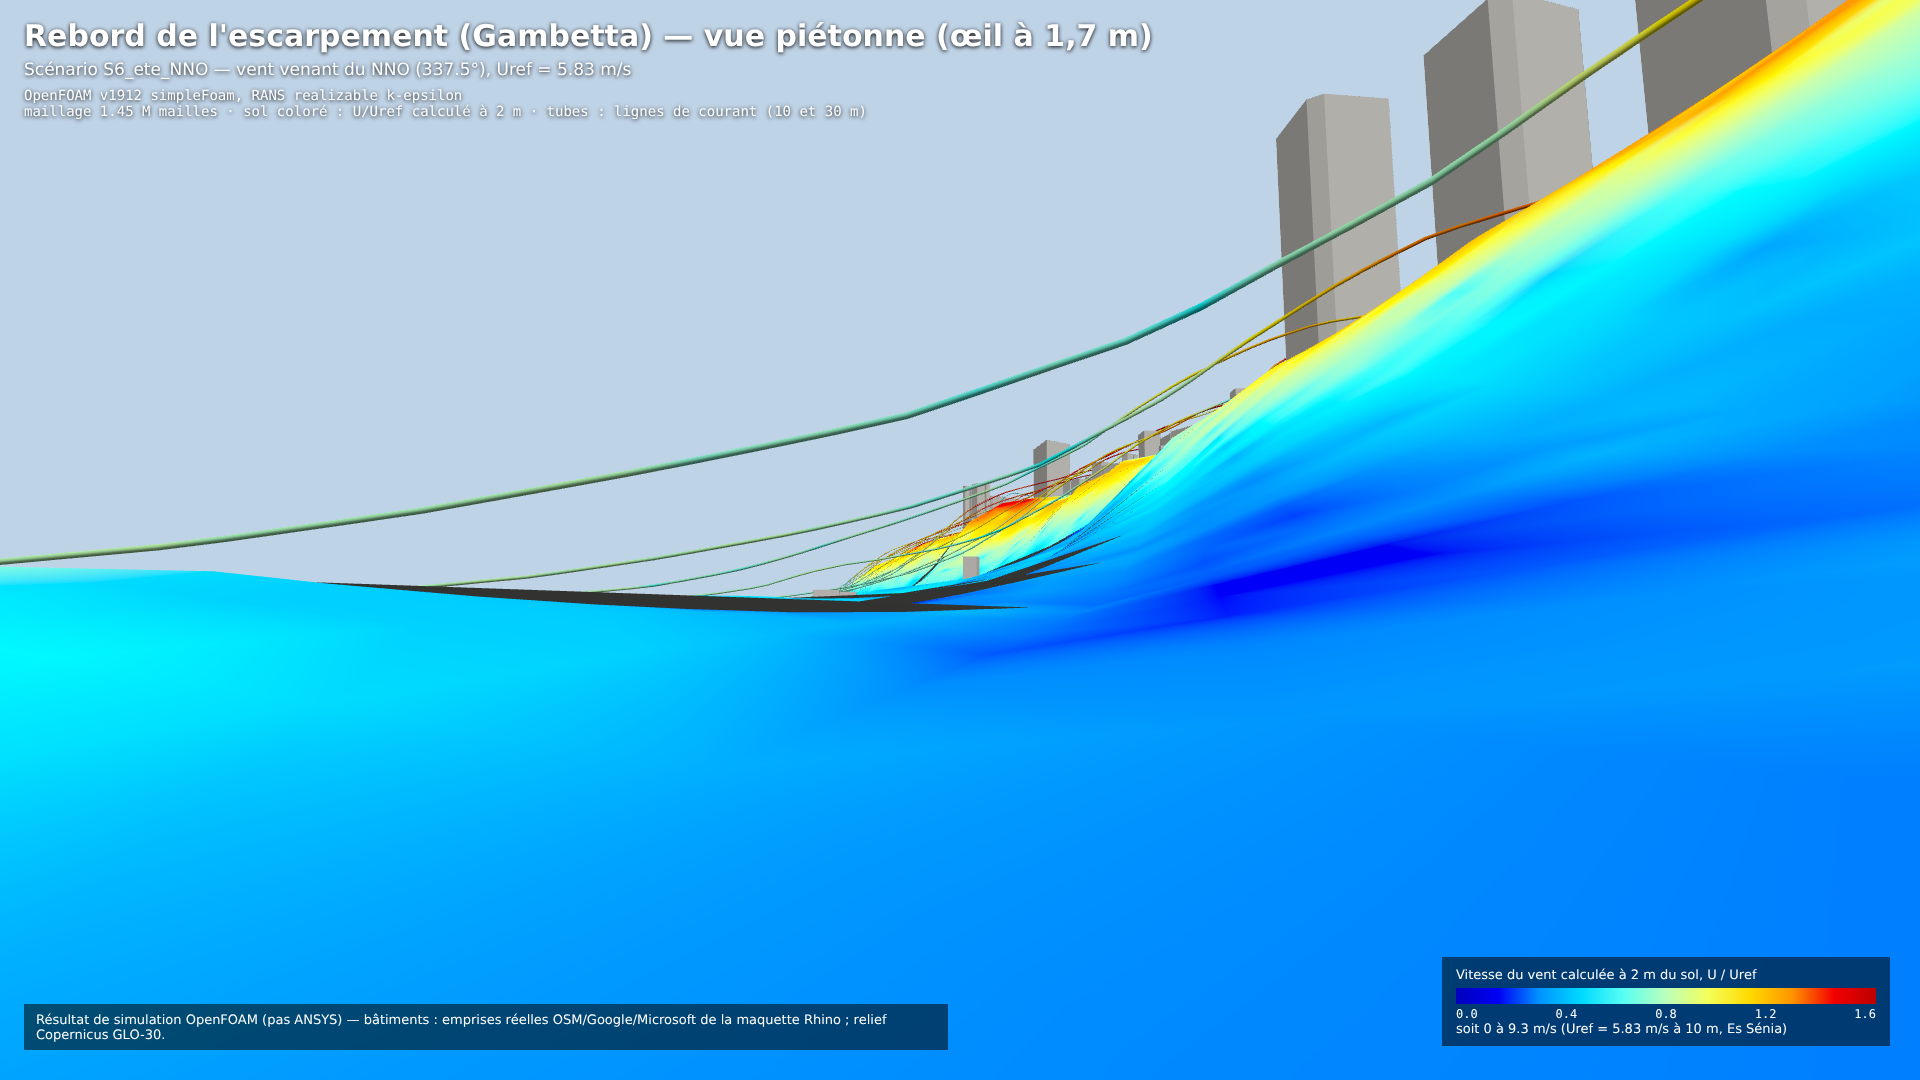
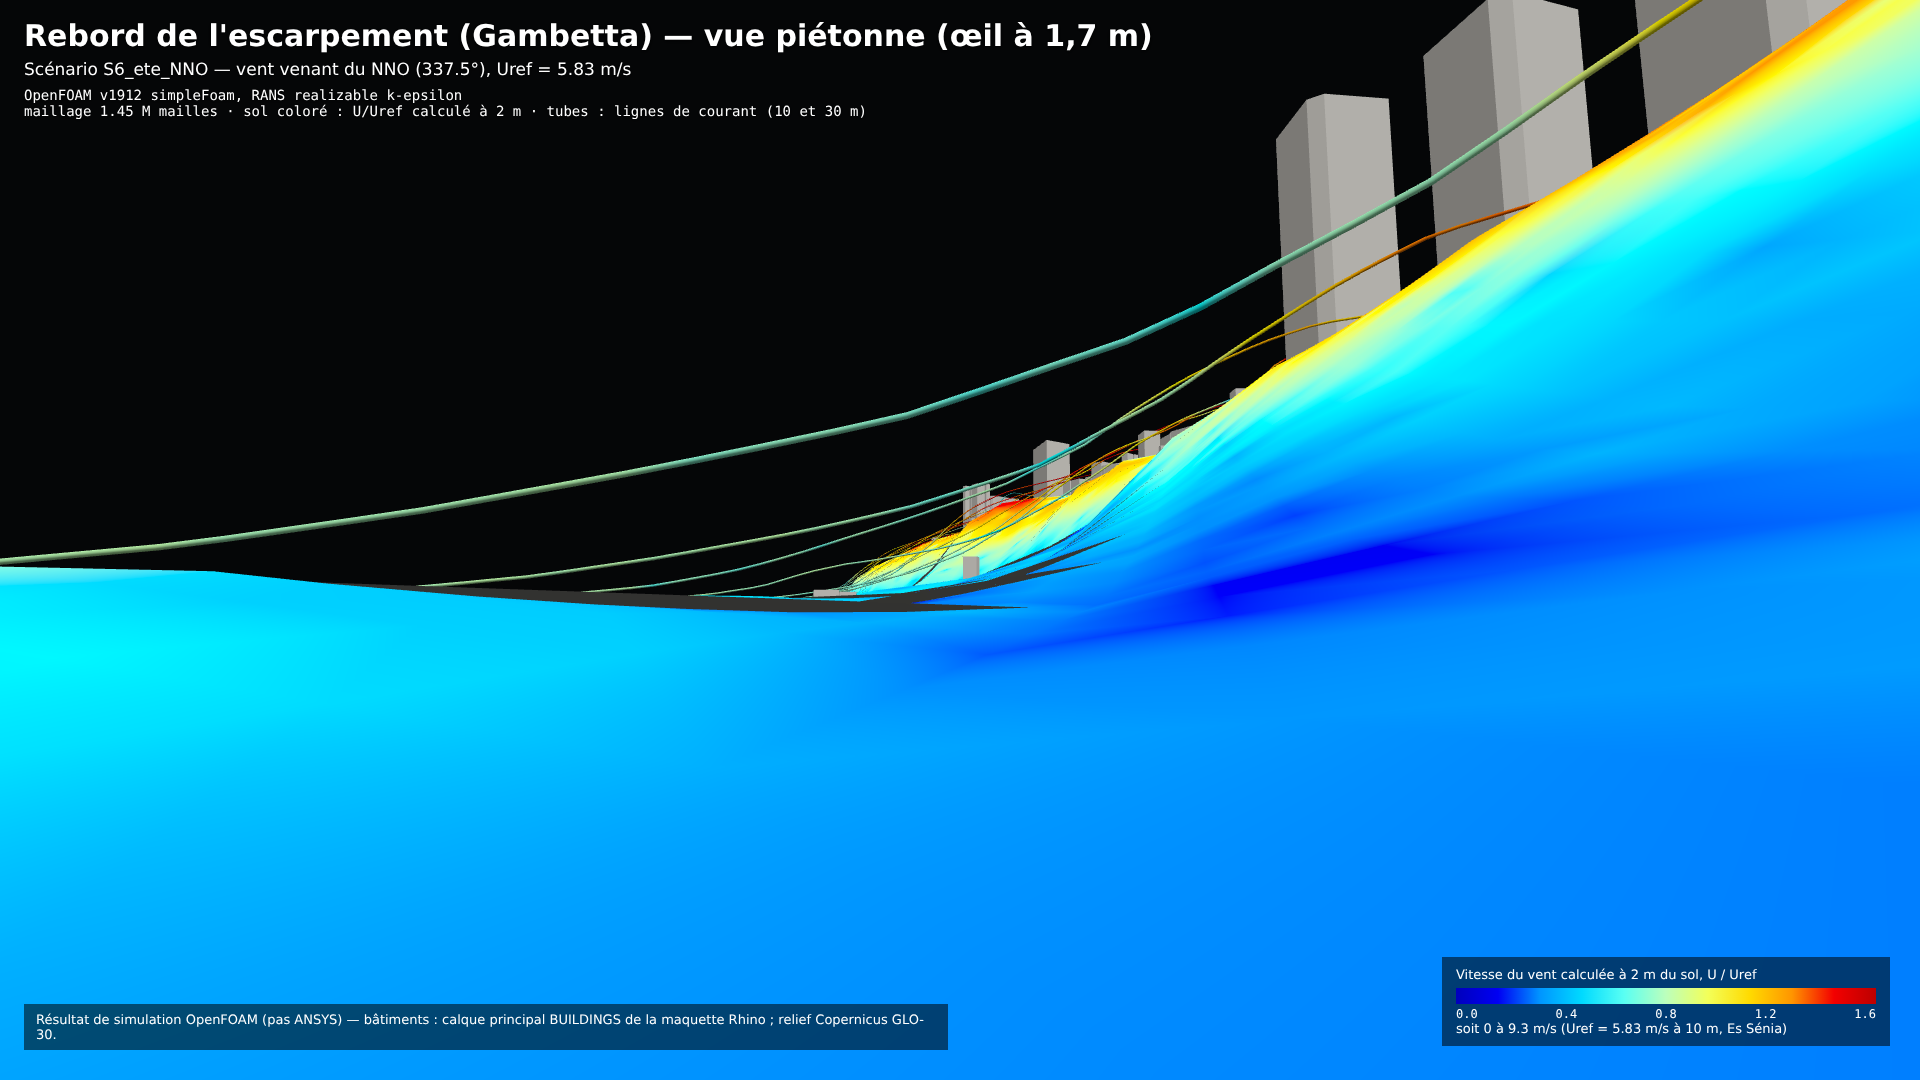
Black technical background for perspective views; correct mesh section; larger slide text
- 47: absolute output path, street cameras moved off building footprints, caption names the building layer used
- 45: mesh_cell_boxes() for true cell sections; 51 draws the mesh section from cell boxes
- 51/50: thermal results from S6T2_ref_coarse; report documents the diverged first attempt
- slides: larger fonts for full-HD readability

Claude-Session: https://claude.ai/code/session_01QGwNbZQt4WkfttLmgBQ439

diff --git a/scripts/cfd/perspective/index.html b/scripts/cfd/perspective/index.html
@@ -1,5 +1,5 @@
 <!doctype html><html><head><meta charset="utf-8">
-<style>html,body{margin:0;width:1920px;height:1080px;overflow:hidden;background:#cfd8dc;font-family:'DejaVu Sans',sans-serif}
+<style>html,body{margin:0;width:1920px;height:1080px;overflow:hidden;background:#050607;font-family:'DejaVu Sans',sans-serif}
 #hud{position:absolute;left:24px;top:18px;color:#fff;text-shadow:0 1px 4px #000}
 #t1{font:700 30px 'DejaVu Sans'} #t2{font:17px 'DejaVu Sans';margin-top:6px} #t3{font:14px 'DejaVu Sans Mono';margin-top:8px;white-space:pre}
 #leg{position:absolute;right:30px;bottom:34px;width:420px;background:rgba(0,0,0,.55);padding:10px 14px;color:#fff;font:13px 'DejaVu Sans'}
@@ -24,13 +24,13 @@ document.getElementById('legm').textContent = `soit 0 à ${(VMAX * S.uref).toFix
 async function bin(u, T) { return new T(await (await fetch(u)).arrayBuffer()); }
 const scenes = {};
 async function build(k) {
-  const sc = new THREE.Scene(); sc.background = new THREE.Color(0xbfd3e6); sc.fog = new THREE.Fog(0xbfd3e6, 1500, 5200);
+  const sc = new THREE.Scene(); sc.background = new THREE.Color(0x050607); sc.fog = new THREE.Fog(0x050607, 1500, 5200);
   sc.add(new THREE.HemisphereLight(0xffffff, 0x8d8d8d, 1.1));
   const sun = new THREE.DirectionalLight(0xffffff, 1.6); sun.position.set(-800, 1500, 600); sc.add(sun);
   let g = new THREE.BufferGeometry(); g.setAttribute('position', new THREE.BufferAttribute(await bin(`${k}_terrain_pos.bin`, Float32Array), 3));
   g.setIndex(new THREE.BufferAttribute(await bin(`${k}_terrain_idx.bin`, Uint32Array), 1)); g.computeVertexNormals();
   sc.add(new THREE.Mesh(g, new THREE.MeshLambertMaterial({ color: 0x9e9e98 })));
-  const sea = new THREE.Mesh(new THREE.PlaneGeometry(40000, 40000), new THREE.MeshLambertMaterial({ color: 0x3f6f8f }));
+  const sea = new THREE.Mesh(new THREE.PlaneGeometry(40000, 40000), new THREE.MeshLambertMaterial({ color: 0x15191d }));
   sea.rotation.x = -Math.PI / 2; sea.position.y = 0.3; sc.add(sea);
   const q = await bin(`${k}_ped.bin`, Float32Array); const n = q.length / 4;
   const pp = new Float32Array(3 * n), cc = new Float32Array(3 * n);
@@ -69,7 +69,8 @@ window.renderShot = i => {
   document.getElementById('t1').textContent = s.label;
   document.getElementById('t2').textContent = `Scénario ${S.sid} — vent venant du ${dirs[Math.round(S.dir / 22.5) % 16]} (${S.dir}°), Uref = ${S.uref} m/s`;
   document.getElementById('t3').textContent = `${S.solver}\nmaillage ${S.cells ? (S.cells / 1e6).toFixed(2) + ' M mailles' : ''} · sol coloré : U/Uref calculé à 2 m · tubes : lignes de courant (10 et 30 m)`;
-  document.getElementById('tag').textContent = 'Résultat de simulation OpenFOAM (pas ANSYS) — bâtiments : emprises réelles OSM/Google/Microsoft de la maquette Rhino ; relief Copernicus GLO-30.';
+  document.getElementById('tag').textContent = 'Résultat de simulation OpenFOAM (pas ANSYS) — bâtiments : ' +
+    (S.bati === 'reelles' ? 'emprises réelles OSM/Google/Microsoft' : 'calque principal BUILDINGS de la maquette Rhino') + ' ; relief Copernicus GLO-30.';
   r.render(scenes[s.sector], cam); return true;
 };
 window.ready = true;

diff --git a/scripts/video_cfd/51_video_cfd.py b/scripts/video_cfd/51_video_cfd.py
@@ -74,16 +74,19 @@ def mesh_slice(out, case="S6_ref_coarse"):
     c = CASES / case
     if not (c / "constant/polyMesh/owner").exists():
         return None
-    C = pp.mesh_centres(c)
-    sel = np.abs(C[:, 0] - 1350) < 6
-    P = C[sel]
+    lo, hi = pp.mesh_cell_boxes(c)
+    from matplotlib.collections import PatchCollection
+    from matplotlib.patches import Rectangle
+    sel = (lo[:, 0] <= 1350) & (hi[:, 0] > 1350)    # cells cut by the plane x = 1350 m
+    L, H = lo[sel], hi[sel]
+    hs = H[:, 0] - L[:, 0]                          # horizontal cell size (octree: 100, 50, 25, 12.5 m)
     fig, ax = plt.subplots(figsize=(16, 7), dpi=120)
-    fig.patch.set_facecolor("#0f1720"); ax.set_facecolor("#0f1720")
-    from scipy.spatial import cKDTree
-    d, _ = cKDTree(C).query(P, k=2); h = d[:, 1]
-    im = ax.scatter(P[:, 1], P[:, 2], c=h, s=3, cmap="viridis_r", norm=matplotlib.colors.LogNorm(4, 120))
+    fig.patch.set_facecolor("#050607"); ax.set_facecolor("#050607")
+    pc = PatchCollection([Rectangle((a[1], a[2]), b[1] - a[1], b[2] - a[2]) for a, b in zip(L, H)], cmap="viridis_r",
+                         norm=matplotlib.colors.LogNorm(10, 120), edgecolor="#050607", linewidth=0.3)
+    pc.set_array(hs); ax.add_collection(pc); im = pc
     ax.set_xlim(-800, 3000); ax.set_ylim(0, 400)
-    cb = fig.colorbar(im, ax=ax); cb.set_label("taille de maille (m)", color="w"); cb.ax.tick_params(colors="w")
+    cb = fig.colorbar(im, ax=ax); cb.set_label("taille horizontale de maille (m)", color="w"); cb.ax.tick_params(colors="w")
     ax.set_xlabel("Y (m) — coupe nord-sud par Gambetta (x = 1350 m)", color="#b0bec5"); ax.set_ylabel("z (m)", color="#b0bec5")
     ax.tick_params(colors="#b0bec5")
     fig.tight_layout(); fig.savefig(out, facecolor=fig.get_facecolor()); plt.close(fig)
@@ -94,7 +97,7 @@ def main():
     work, out_mp4 = Path(sys.argv[1]), Path(sys.argv[2]); work.mkdir(parents=True, exist_ok=True)
     W = j(R / "wind/wind_stats.json"); SC = j(R / "wind/cfd_scenarios.json"); GR = j(R / "geometrie/geometrie_report.json")
     INV = {p.stem: j(p) for p in (R / "inventaire").glob("inventaire_*.json")}
-    m6, m2, mT, mF, mV = (meta(c) for c in ("S6_ref_coarse", "S2_ref_coarse", "S6T_ref_coarse", "S6_ref_medium", "S6_coarse"))
+    m6, m2, mT, mF, mV = (meta(c) for c in ("S6_ref_coarse", "S2_ref_coarse", "S6T2_ref_coarse", "S6_ref_medium", "S6_coarse"))
     overview_map(work / "carte_secteurs.png")
     mesh_png = mesh_slice(work / "coupe_maillage.png")
     segs = []
@@ -185,7 +188,8 @@ def main():
         if label == "S6":
             for k in ("CENTRE_VILLE", "GAMBETTA", "BD_DES_LIONS"):
                 cl += [frames(CL / f"wind_aerien_{k}_S6_ref_coarse", 5), frames(CL / f"wind_rue_{k}_S6_ref_coarse", 5)]
-            cl += [image(R / "post" / case / "vues" / f"{v}.png", 3) for v in ("GAMBETTA_rue_0", "BD_DES_LIONS_rue_haute_0", "CENTRE_VILLE_rue_haute_0")]
+            # street level: realistic clips above (textured maquette, cameras on the asphalt); here the aerial result views
+            cl += [image(R / "post" / case / "vues" / f"{v}.png", 3) for v in ("GAMBETTA_aerienne", "BD_DES_LIONS_aerienne")]
         else:
             cl += [image(R / "post" / case / "vues" / f"{v}.png", 3) for v in ("CENTRE_VILLE_aerienne", "GAMBETTA_aerienne", "BD_DES_LIONS_aerienne")]
         cl += [image(next((R / "post" / case).glob("coupes_*.png"), None), 4, zoom=False)]
@@ -207,7 +211,7 @@ def main():
                                bullets=["IMPORTÉ : température de surface LST (toits, sol) — figure Landsat, 10/07/2024", "CALCULÉ : température de l'air (Boussinesq) sous le vent S6",
                                         "Murs à la température de l'air (pas de donnée) · mer supposée à 24 °C", "Non modélisé : rayonnement, ombrage, végétation transpirante"], min=6),
                          image(ROOT / "results/thermal/apercu_3d_thermique_centre.png", 4),
-                         image(next((R / "post/S6T_ref_coarse").glob("carte_Tair_*.png"), None), 6, zoom=False)) if c])
+                         image(next((R / "post/S6T2_ref_coarse").glob("carte_Tair_*.png"), None), 6, zoom=False)) if c])
     else:
         seg("E_thermique", ["Le cas thermique couplé n'était pas disponible au moment du montage : la séquence est présentée comme une étape préparée."],
             [slide("E · Thermique", "Couplage vent – chaleur : étape préparée", badge=("plan", "non exécuté"))])

diff --git a/scripts/cfd/47_vues_perspective.py b/scripts/cfd/47_vues_perspective.py
@@ -45,8 +45,21 @@ def stl_tris(path):
     return np.array([list(map(float, t.split()[:3])) for t in txt]).reshape(-1, 3, 3)
 
 
+def free_point(p, along, roofs, clear=3.0):
+    """First point near p (lateral offsets, then along the street) that is >= clear m from every building footprint:
+    the street axes come from OSM centroids and can fall inside a building of the reference layer."""
+    from shapely.geometry import Point
+    side = np.array([-along[1], along[0]])
+    for a in (0, 5, 10, 15, 20, 30):
+        for o in (0, 3, -3, 6, -6, 9, -9, 12, -12, 15, -15):
+            q = p + a * along + o * side
+            if roofs.distance(Point(q)) >= clear:
+                return q
+    return p
+
+
 def main():
-    post, sid, out = Path(sys.argv[1]), sys.argv[2], Path(sys.argv[3]); out.mkdir(parents=True, exist_ok=True)
+    post, sid, out = Path(sys.argv[1]), sys.argv[2], Path(sys.argv[3]).resolve(); out.mkdir(parents=True, exist_ok=True)
     meta = json.loads((post / f"meta_{sid}.json").read_text()); uref = meta["U10_ref_ms"]
     ped = pd.read_csv(post / f"champ_pieton_{sid}.csv")
     sl = pd.read_csv(post / f"lignes_courant_{sid}.csv")
@@ -67,7 +80,12 @@ def main():
         n2 = ix.sum(); i = (np.arange(iy.sum() - 1)[:, None] * n2 + np.arange(n2 - 1)[None, :]).ravel()
         to3(P).tofile(web / f"{k}_terrain_pos.bin")
         np.r_[np.c_[i, i + n2, i + 1].ravel(), np.c_[i + 1, i + n2, i + n2 + 1].ravel()].astype(np.uint32).tofile(web / f"{k}_terrain_idx.bin")
-        to3(stl_tris(Path(meta["geo_dir"]) / f"buildings_{k}.stl").reshape(-1, 3)).tofile(web / f"{k}_bld.bin")
+        V = stl_tris(Path(meta["geo_dir"]) / f"buildings_{k}.stl")
+        to3(V.reshape(-1, 3)).tofile(web / f"{k}_bld.bin")
+        from shapely.geometry import Polygon
+        from shapely.ops import unary_union
+        nz = np.cross(V[:, 1] - V[:, 0], V[:, 2] - V[:, 0])
+        roofs = unary_union([Polygon(t[:, :2]) for t in V[nz[:, 2] > 0.9 * np.linalg.norm(nz, axis=1)] if Polygon(t[:, :2]).area > 1e-3])
         d = ped[ped.secteur == k]
         # continuous draped surface of the pedestrian field: regular 5 m grid, a quad where its 4 corners are fluid
         gx = np.round((d.x.values - b[0]) / 5).astype(int); gy = np.round((d.y.values - b[1]) / 5).astype(int)
@@ -95,7 +113,8 @@ def main():
         for j, (nm, pts) in enumerate(STREETS[k]):
             p0, p1 = np.array(pts[0], float), np.array(pts[-1], float)
             dvec = (p1 - p0) / np.linalg.norm(p1 - p0)
-            for tag, (src, dst) in (("rue", (p0 - 15 * dvec, p1)), ("rue_inverse", (p1 + 15 * dvec, p0))):
+            for tag, (src, dst) in (("rue", (free_point(p0 - 15 * dvec, dvec, roofs), p1)),
+                                    ("rue_inverse", (free_point(p1 + 15 * dvec, -dvec, roofs), p0))):
                 z0 = float(zg([[src[1], src[0]]])[0]) + 1.7; z1 = float(zg([[dst[1], dst[0]]])[0]) + 6.0
                 shots.append({"sector": k, "name": f"{k}_{tag}_{j}", "label": f"{nm} — vue piétonne (œil à 1,7 m)", "street": True,
                               "cam": to3([(src[0], src[1], z0)])[0].tolist(), "tgt": to3([(dst[0], dst[1], z1)])[0].tolist(), "fov": 70})
@@ -104,7 +123,7 @@ def main():
             shots.append({"sector": k, "name": f"{k}_rue_haute_{j}", "label": f"{nm} — perspective à 60 m",
                           "cam": to3([(c2[0], c2[1], float(zg([[c2[1], c2[0]]])[0]) + 60)])[0].tolist(),
                           "tgt": to3([(mid[0], mid[1], float(zg([[mid[1], mid[0]]])[0]))])[0].tolist(), "fov": 55})
-    scene = {"sid": sid, "uref": uref, "dir": meta["dir_from_deg"], "solver": meta["solver"], "cells": meta.get("mesh_cells"),
+    scene = {"sid": sid, "uref": uref, "dir": meta["dir_from_deg"], "solver": meta["solver"], "cells": meta.get("mesh_cells"), "bati": meta.get("bati"),
              "shots": shots, "sectors": list(SECT)}
     (web / "scene.json").write_text(json.dumps(scene))
     srv = subprocess.Popen([sys.executable, "-m", "http.server", "8771", "--bind", "127.0.0.1"], cwd=web,

diff --git a/scripts/video_cfd/slides.py b/scripts/video_cfd/slides.py
@@ -6,15 +6,15 @@ from pathlib import Path
 CSS = """
 html,body{margin:0;width:1920px;height:1080px;background:#0f1720;color:#eceff1;font-family:'DejaVu Sans',sans-serif;overflow:hidden}
 .top{position:absolute;left:0;right:0;top:0;height:8px;background:linear-gradient(90deg,#e53935,#fb8c00,#fdd835,#43a047,#1e88e5)}
-.sec{position:absolute;left:70px;top:46px;font:600 20px 'DejaVu Sans';color:#90caf9;letter-spacing:2px;text-transform:uppercase}
-h1{position:absolute;left:70px;top:80px;margin:0;font:700 46px 'DejaVu Sans';max-width:1780px}
-.body{position:absolute;left:70px;top:178px;right:70px;bottom:120px;display:flex;gap:46px}
-.col{flex:1;font:25px/1.42 'DejaVu Sans'} .col ul{margin:0;padding-left:28px} .col li{margin-bottom:12px}
+.sec{position:absolute;left:70px;top:46px;font:600 24px 'DejaVu Sans';color:#90caf9;letter-spacing:2px;text-transform:uppercase}
+h1{position:absolute;left:70px;top:84px;margin:0;font:700 54px 'DejaVu Sans';max-width:1780px}
+.body{position:absolute;left:70px;top:196px;right:70px;bottom:120px;display:flex;gap:46px}
+.col{flex:1;font:31px/1.45 'DejaVu Sans'} .col ul{margin:0;padding-left:28px} .col li{margin-bottom:18px}
 .fig{flex:1.25;display:flex;align-items:center;justify-content:center;background:#fff;border-radius:6px}
 .fig img{max-width:100%;max-height:100%;object-fit:contain}
-table{border-collapse:collapse;font:21px 'DejaVu Sans Mono';width:100%} td,th{border-bottom:1px solid #37474f;padding:7px 10px;text-align:left}
-th{color:#90caf9;font-family:'DejaVu Sans'} .note{position:absolute;left:70px;right:70px;bottom:118px;font:18px 'DejaVu Sans';color:#b0bec5}
-.badge{display:inline-block;padding:3px 10px;border-radius:4px;font:600 18px 'DejaVu Sans';margin-right:8px}
+table{border-collapse:collapse;font:24px 'DejaVu Sans Mono';width:100%} td,th{border-bottom:1px solid #37474f;padding:7px 10px;text-align:left}
+th{color:#90caf9;font-family:'DejaVu Sans'} .note{position:absolute;left:70px;right:70px;bottom:118px;font:22px 'DejaVu Sans';color:#b0bec5}
+.badge{display:inline-block;padding:3px 10px;border-radius:4px;font:600 22px 'DejaVu Sans';margin-right:10px}
 .ok{background:#2e7d32} .est{background:#ef6c00} .plan{background:#6a1b9a} .src{font:16px 'DejaVu Sans';color:#90a4ae}
 """
 

diff --git a/scripts/cfd/50_rapport_scientifique.py b/scripts/cfd/50_rapport_scientifique.py
@@ -45,7 +45,7 @@ def main():
     GR = j(R / "geometrie/geometrie_report.json"); GRR = j(R / "geometrie_emprises_reelles/geometrie_report.json")
     INV = {p.stem: j(p) for p in (R / "inventaire").glob("inventaire_*.json")}
     runs = {"S6_ref_coarse": "S6 été NNO — maillage grossier (référence)", "S2_ref_coarse": "S2 SO — maillage grossier",
-            "S6T_ref_coarse": "S6 thermique couplé (Boussinesq)", "S6_ref_medium": "S6 été NNO — maillage fin",
+            "S6T2_ref_coarse": "S6 thermique couplé (Boussinesq, initialisé depuis S6)", "S6_ref_medium": "S6 été NNO — maillage fin",
             "S6_coarse": "S6 — variante bâti « emprises réelles » (sensibilité)"}
     M = {k: meta(k) for k in runs}
     L = []; w = L.append
@@ -139,6 +139,10 @@ def main():
       "SIMPLE, quantité de mouvement linearUpwind limité, k et ε upwind.")
     w("* Thermique : `buoyantBoussinesqSimpleFoam` (Boussinesq, β = 3,3·10⁻³ K⁻¹), toitures et sol à la **LST du 10/07/2024** "
       "(température de surface imposée), murs à la température de l'air (aucune donnée), air entrant à la moyenne observée des après-midi d'été.")
+    w("* **Premier essai thermique divergé** (`S6T_ref_coarse`, démarré au repos, sous-relaxation 0,6) : k et ε non bornés dès "
+      "l'itération 95, arrêt sur exception numérique à l'itération 452 ; aucun résultat n'en est utilisé. Calcul refait "
+      "(`S6T2_ref_coarse`) à partir du champ isotherme convergé de S6, sous-relaxation 0,4 (U, k, ε, T) et 0,2 (p_rgh), "
+      "2 correcteurs de non-orthogonalité, T en upwind (1er ordre, plus diffusif), 1000 itérations.")
     w("")
     w("## 5. Résultats")
     w("")

diff --git a/scripts/cfd/45_postprocess.py b/scripts/cfd/45_postprocess.py
@@ -84,6 +84,33 @@ def mesh_centres(case):
     return C / cnt[:, None]
 
 
+def mesh_cell_boxes(case):
+    """Axis-aligned bounding box (min, max) of every cell, from its face points (used for mesh sections)."""
+    pm = Path(case) / "constant/polyMesh"
+    P = np.fromstring(body(pm / "points")[0][body(pm / "points")[1]:].split("(", 1)[1].rsplit(")", 1)[0]
+                      .replace("(", " ").replace(")", " "), sep=" ").reshape(-1, 3)
+    t, h = body(pm / "faces")
+    ints = np.fromstring(t[t.index("(", h) + 1:t.rindex(")")].replace("(", " ").replace(")", " "), sep=" ", dtype=np.int64)
+    starts, lens = [], []; pos = 0
+    while pos < len(ints):
+        n = int(ints[pos]); starts.append(pos + 1); lens.append(n); pos += n + 1
+    starts = np.array(starts); lens = np.array(lens)
+    fmin = np.zeros((len(starts), 3)); fmax = np.zeros((len(starts), 3))
+    for m in np.unique(lens):
+        k = lens == m
+        V = P[ints[starts[k][:, None] + np.arange(m)[None, :]]]
+        fmin[k] = V.min(1); fmax[k] = V.max(1)
+    def ilist(name):
+        t, h = body(pm / name)
+        return np.fromstring(t[t.index("(", h) + 1:t.rindex(")")], sep=" ", dtype=np.int64)
+    own, nei = ilist("owner"), ilist("neighbour")
+    nc = int(max(own.max(), nei.max())) + 1
+    lo = np.full((nc, 3), np.inf); hi = np.full((nc, 3), -np.inf)
+    for c, n in ((own, len(own)), (nei, len(nei))):
+        np.minimum.at(lo, c, fmin[:n]); np.maximum.at(hi, c, fmax[:n])
+    return lo, hi
+
+
 def footprints(tri_dir):
     from shapely.geometry import Polygon
     from shapely.ops import unary_union
